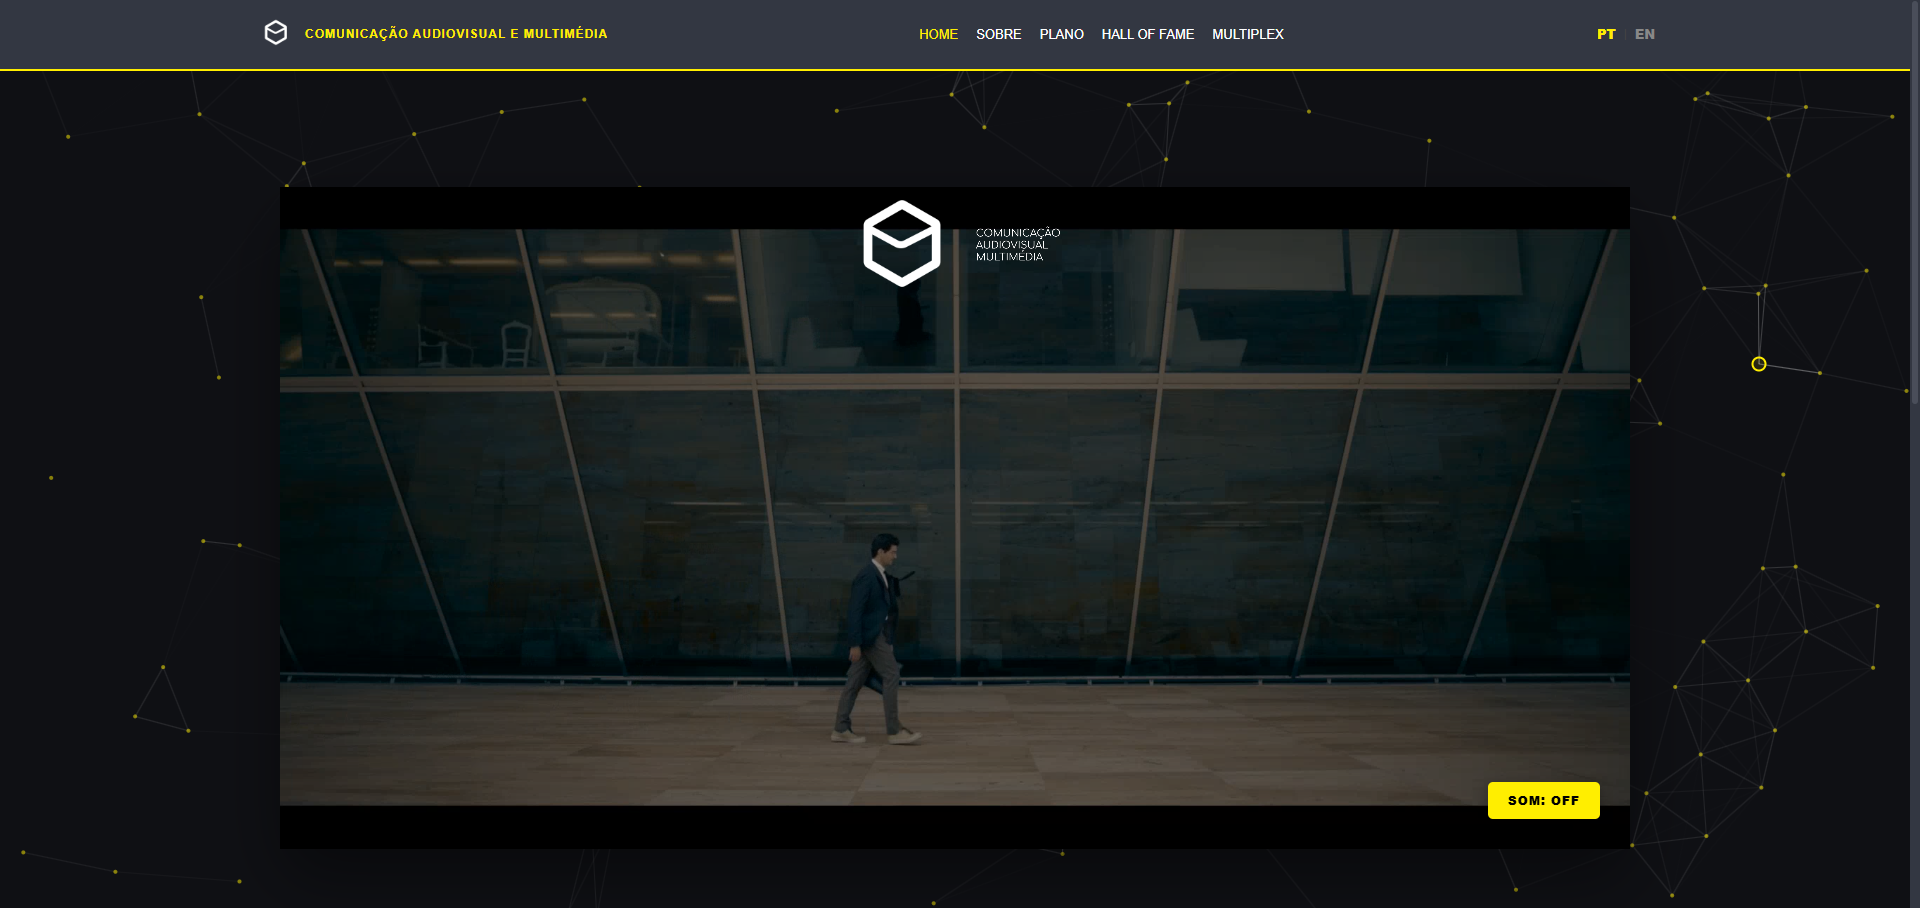
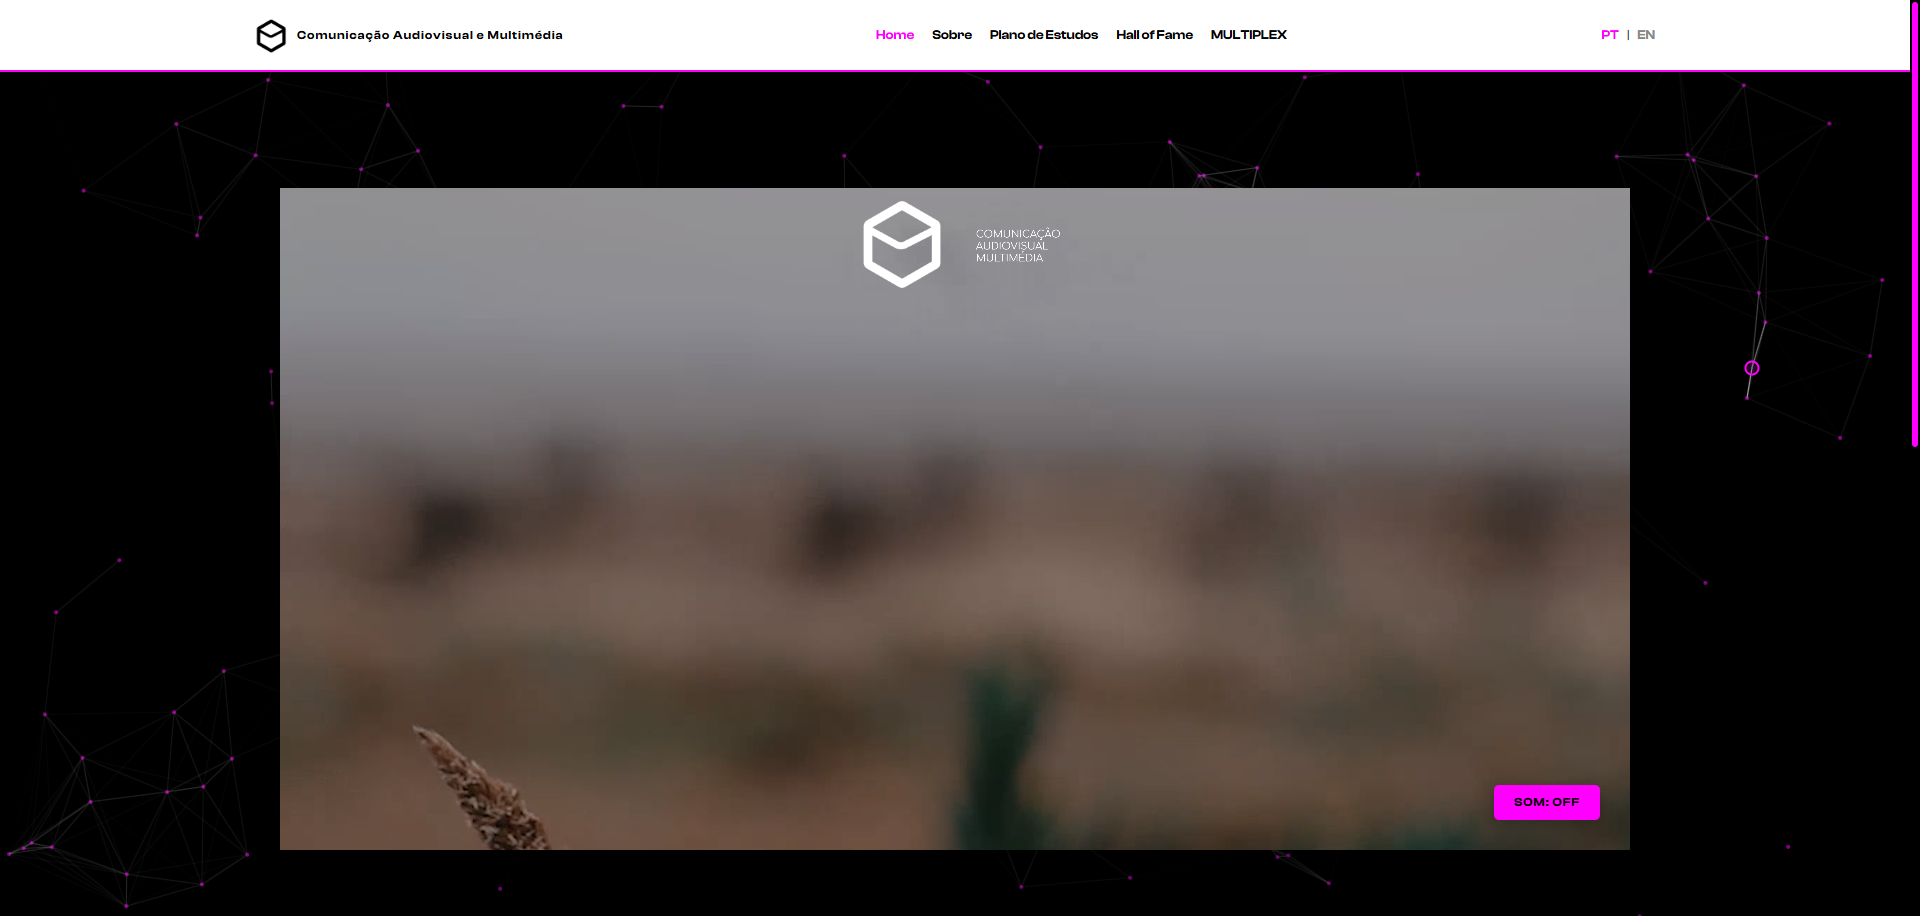
add VAM link

diff --git a/projetos.html b/projetos.html
@@ -189,7 +189,7 @@
                             <span class="tag">By Request</span>
                         </div>
                         <div class="projeto-links-wrap">
-                            <a href="#" target="_blank" rel="noopener" class="btn btn-primary">Visit Website</a>
+                            <a href="https://jchacker2024.github.io/VAM_SITE/" target="_blank" rel="noopener" class="btn btn-primary">Visit Website</a>
                         </div>
                     </div>
                 </div>
